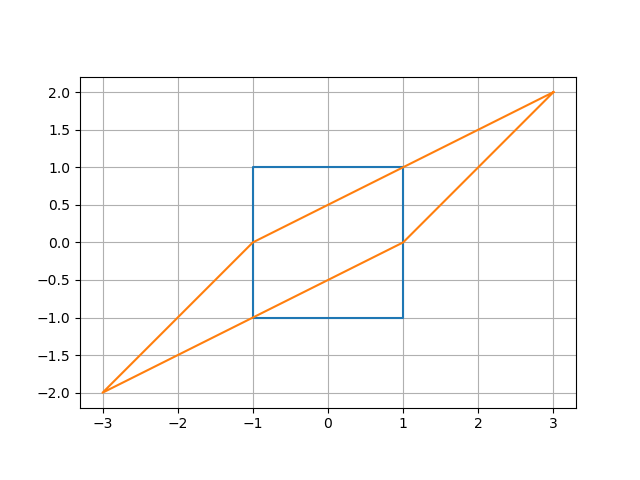
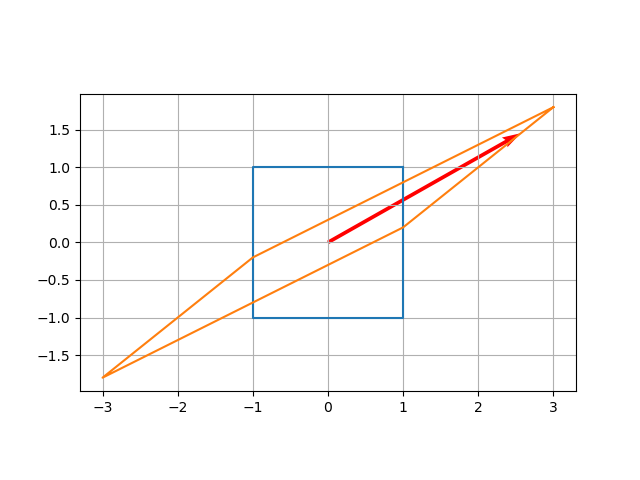
feat: disp eigen_vec arrow / error: not funct in without between point 1 with point4

Changed region(s): [[0.0625, 0.1562, 0.9062, 0.9062], [0.2812, 0.625, 0.3125, 0.6562]]

diff --git a/shapes_transform.py b/shapes_transform.py
@@ -7,7 +7,7 @@ v3 = [[-1], [-1]]
 v4 = [[-1], [1]]
 shape = [v1,v2,v3,v4]
 
-A = [[2,1], [1,1]]
+A = [[2,1], [1,0.8]]
 ini_v = [[5],[-4]]
 
 def matmul(A, v):
@@ -46,17 +46,22 @@ def power_method(A,v):
         #print(vecmul(normalized_n_v, matmul(A, normalized_n_v)))
         v = normalized_n_v
     print(f"eigen_vector: {normalized_n_v}")
-    print(f"eigen_value: {vecmul(normalized_n_v, matmul(A, normalized_n_v))}")
+    eig_val = vecmul(normalized_n_v, matmul(A, normalized_n_v))
+    print(f"eigen_value: {eig_val}")
+    return [nn for n in normalized_n_v for nn in n], eig_val
 
 if __name__ == "__main__":
     print(shape)
     shape_d = [matmul(A,v) for v in shape]
-    power_method(A, ini_v)
+    eig_vec, eig_val = power_method(A, ini_v)
     print(shape_d)
     o_x, o_y = _to_coodinate(shape)
     d_x, d_y = _to_coodinate(shape_d)
+
+    cross_norm = ((1 / eig_vec[0] * eig_vec[1])**2 + 1)**0.5
     plt.plot(o_x, o_y)
     plt.plot(d_x, d_y)
+    plt.quiver(0, 0, eig_vec[0]*eig_val*cross_norm, eig_vec[1]*eig_val*cross_norm, angles='xy', scale_units='xy', scale=1, color='r', label='eigenvector λ≈2.618')
     plt.gca().set_aspect('equal', adjustable='box')
     plt.grid()
     plt.savefig("plt.png")
